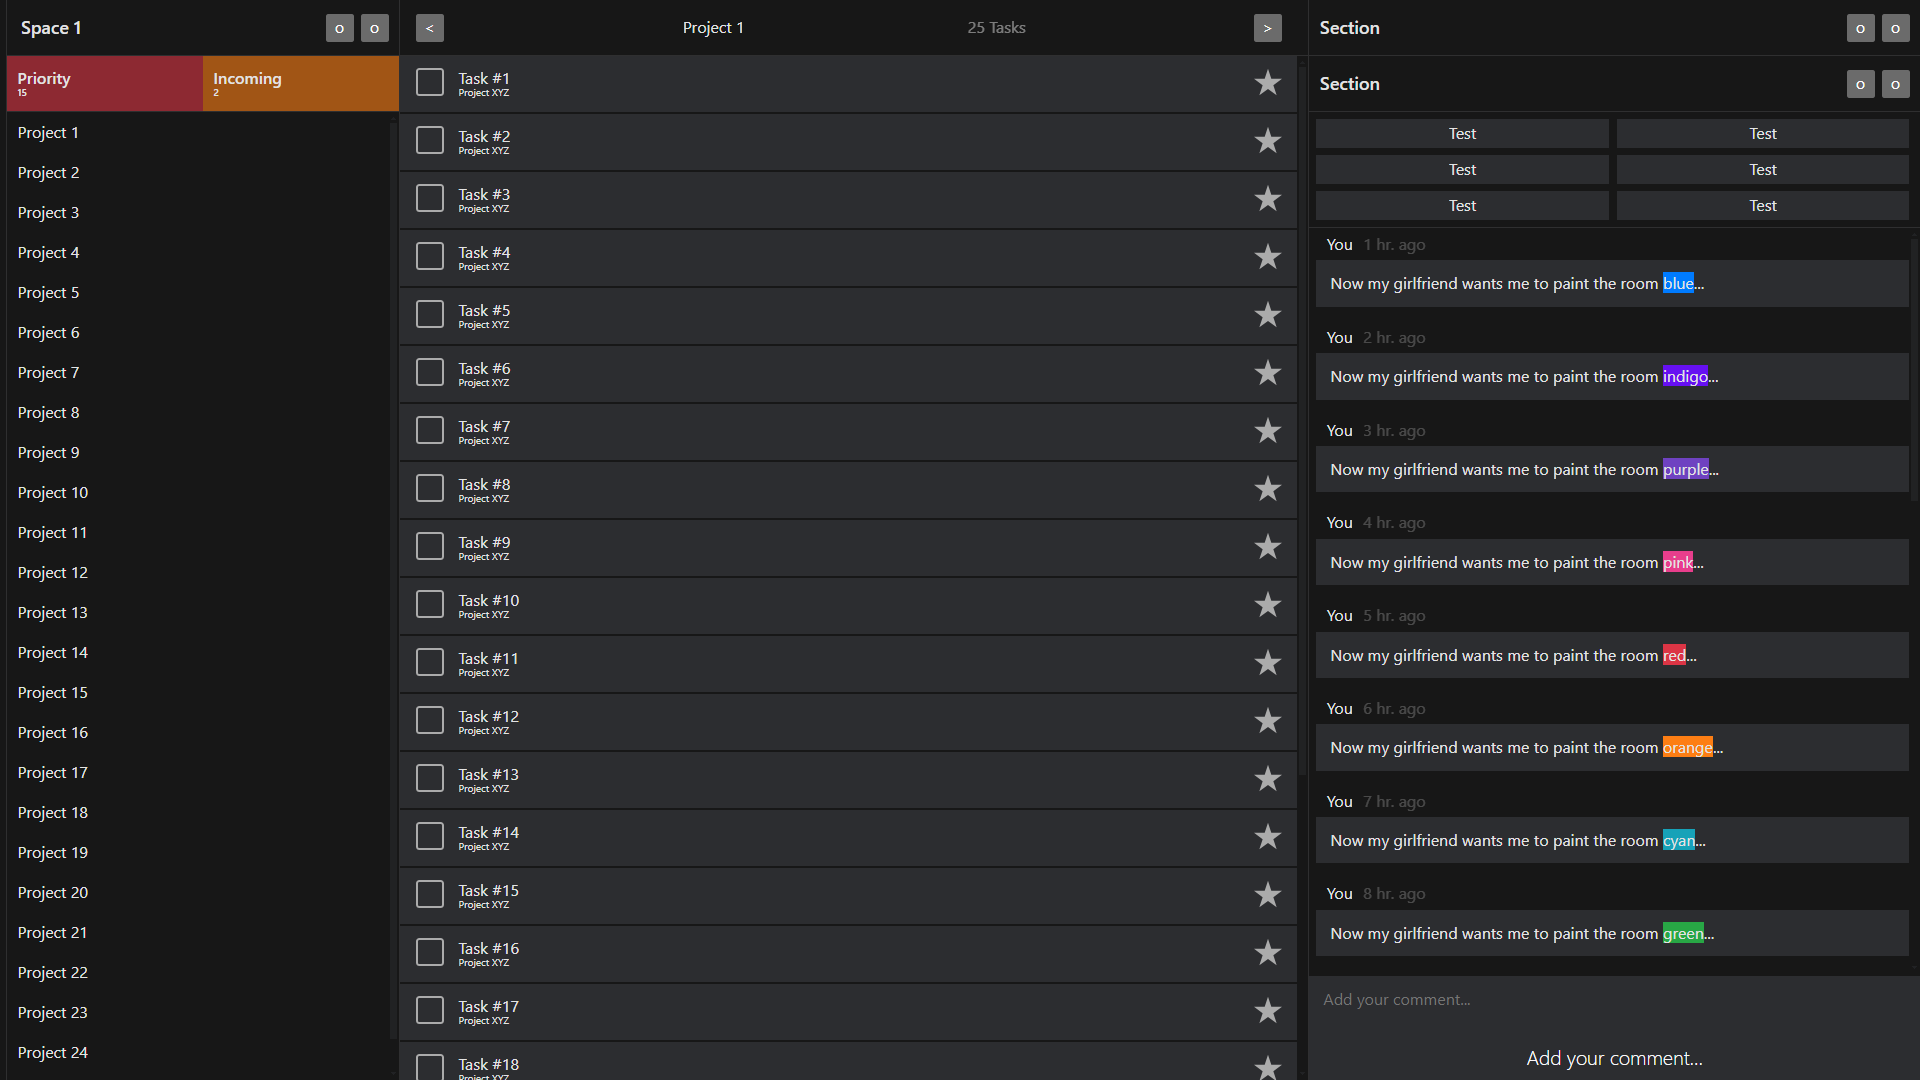
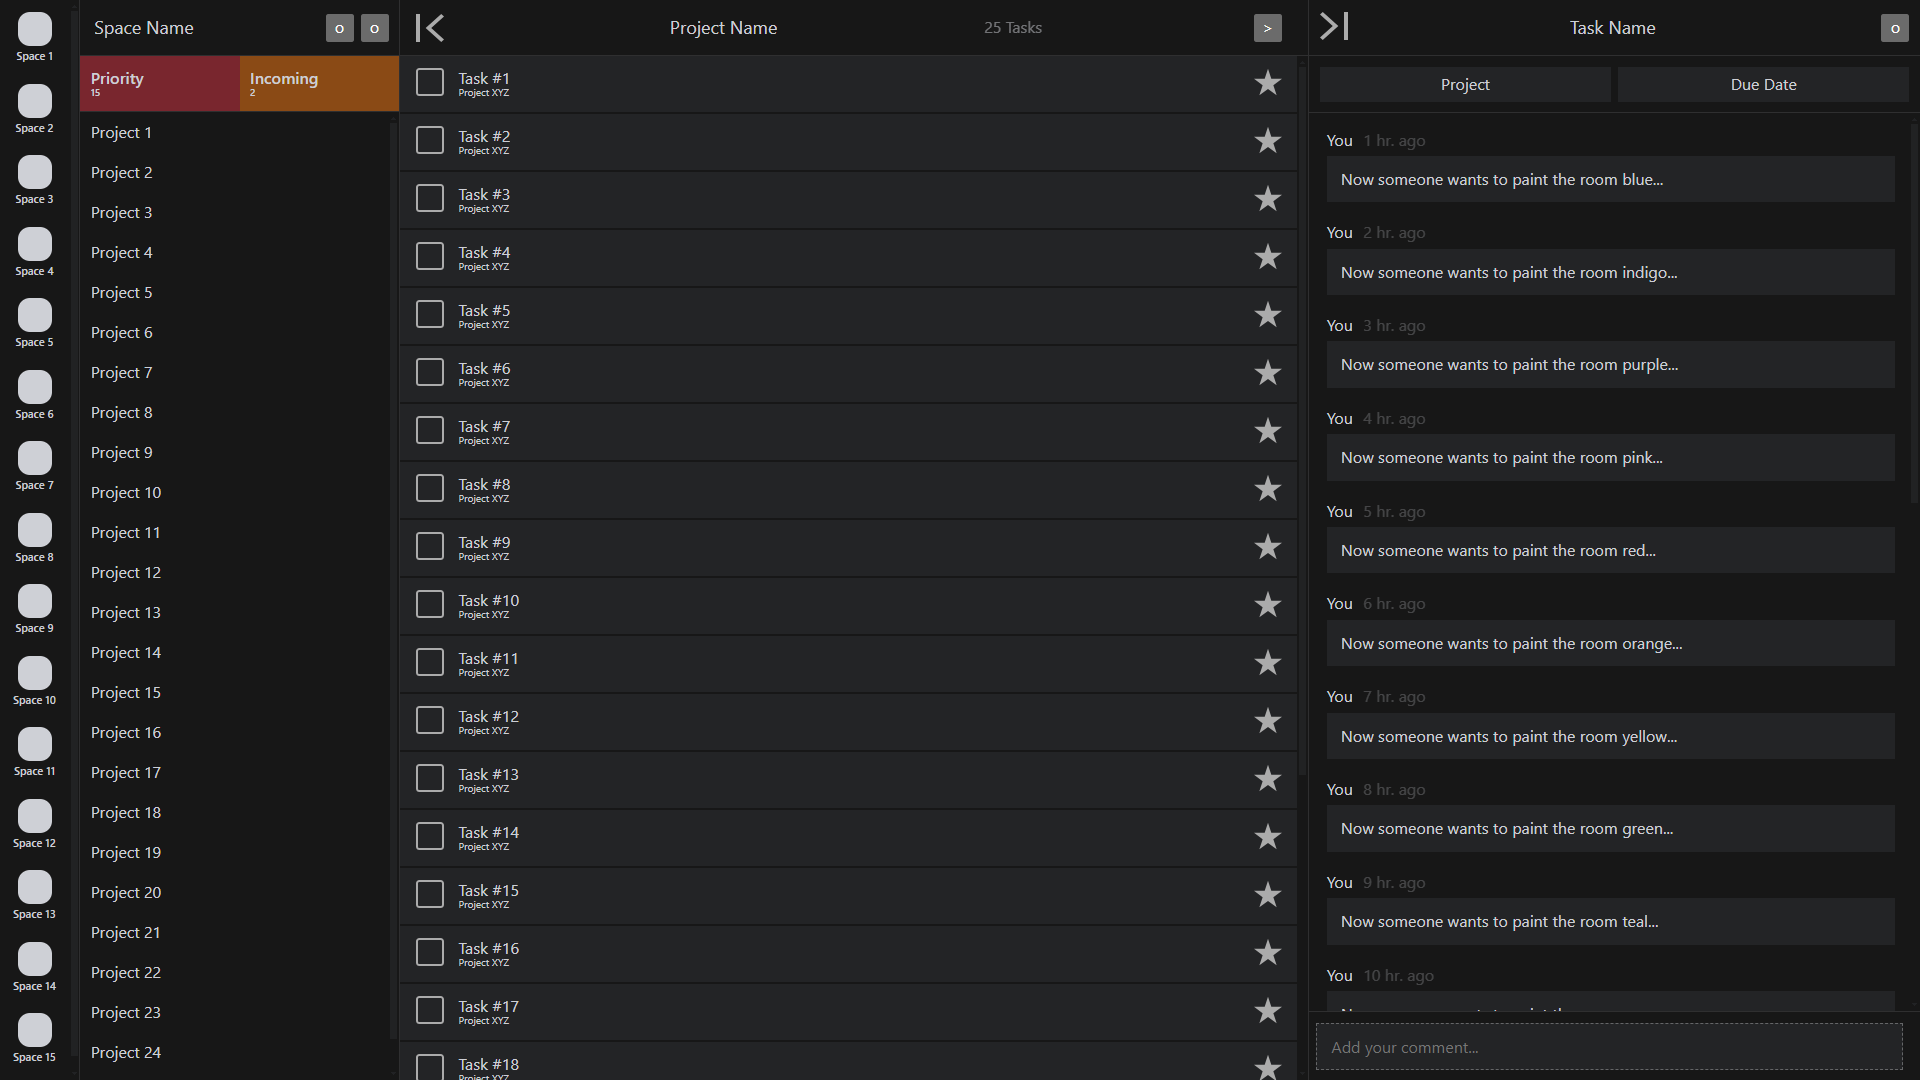
Create User Interface - Step 7 #159

diff --git a/src/frontend/angular/src/sass/colors.scss b/src/frontend/angular/src/sass/colors.scss
@@ -1,21 +1,43 @@
-@mixin activeColor($currentColor)
-{
+@mixin activeColor($currentColor) {
   background-color: $currentColor;
-  &.hd
-  {
-    transition: background-color 0.5s ease;
-    &:hover
-    {
+  color: inherit;
+  &.hd {
+    transition: all 0.5s ease;
+
+    &:hover, &:focus {
       background-color: darken($currentColor, 10%);
+
+      &.focus {
+        box-shadow: inset 0px 0px 1px 1px rgba(255, 255, 255, 1);
+      }
+    }
+
+    &:active {
+      color: rgba(255, 255, 255, 1);
+      &.focus {
+        transition: all 0.2s ease;
+        box-shadow: inset 0px 0px 2px 2px rgba(255, 255, 255, 1);
+      }
     }
   }
 
-  &.hl
-  {
-    transition: background-color 0.5s ease;
-    &:hover
-    {
+  &.hl {
+    transition: all 0.5s ease;
+
+    &:hover, &:focus {
       background-color: lighten($currentColor, 10%);
+
+      &.focus {
+        box-shadow: inset 0px 0px 1px 1px rgba(255, 255, 255, 1);
+      }
+    }
+
+    &:active {
+      color: rgba(255, 255, 255, 1);
+      &.focus {
+        transition: all 0.2s ease;
+        box-shadow: inset 0px 0px 2px 2px rgba(255, 255, 255, 1);
+      }
     }
   }
 }
@@ -52,12 +74,27 @@ $dark: #343a40;
 $classic: #2c2d30;
 $classicDark: #232426;
 
-.bg-red-o6{ @include activeColor(rgba($red, 0.6)) }
-.bg-orange-o6{ @include activeColor(rgba($orange, 0.6)) }
+.bg-red-o6 {
+  @include activeColor(rgba($red, 0.5))
+}
+
+.bg-orange-o6 {
+  @include activeColor(rgba($orange, 0.5))
+}
+
 //.bg-classic{ @include activeColor(rgba($classic, 1)) }
-.bg-classic{ @include activeColor(rgba($classic, 0.6)) }
-.bg-classicDark{ @include activeColor(rgba($classicDark, 0.6)) }
-.bg-dark-bg{ @include activeColor(rgba($dark-bg, 0.6)) }
+.bg-classic {
+  @include activeColor(rgba($classic, 0.6))
+}
+
+.bg-classicDark {
+  @include activeColor(rgba($classicDark, 0.6))
+}
+
+.bg-dark-bg {
+  @include activeColor(rgba($dark-bg, 0.6))
+}
+
 //.bg-classic{ @include activeColor(rgba($classicDark, 1)) }
 
 //$colors: (
@@ -83,7 +120,7 @@ $classicDark: #232426;
 //  light: $light,
 //  dark: $dark,
 //  classic: $classic,
-//);
+//)
 //
 //@each $name, $color in $colors {
 //  .bg-#{""+$name} {

diff --git a/src/frontend/angular/src/app/components/task-list/task-list.component.html b/src/frontend/angular/src/app/components/task-list/task-list.component.html
@@ -1,8 +1,15 @@
 <div class="sectionInfo">
   <div class="sectionInfoContainer-3">
-    <button class="tmpBtn"><</button>
+<!--    <button class="tmpBtn"></button>-->
+    <span class="tmpBtn">
+      <svg width="28" height="28" viewBox="0 0 28 28" style="fill-rule:evenodd;" fill="#ABABAB">
+        <path d="M28,25.5l-2.778,2.5l-15.555,-14l15.555,-14l2.778,2.5l-12.778,11.5l12.778,11.5Z"/><rect x="0" y="0" width="4" height="28"/>
+            <title>Mark Task As Priority</title>
+      </svg>
+    </span>
+
     <div class="sectionInfoTextContainer">
-      <span class="ml-1 pointer">Project Name</span>
+      <span class="ml-1 pointerFocus">Project Name</span>
     </div>
     <div class="taskCounter">{{taskIndexes.length}} Tasks</div>
     <button class="tmpBtn">></button>
@@ -15,7 +22,7 @@
         <div style="height: 3.2rem; padding: 0 0.5rem;">
           <svg width="28" height="28" viewBox="0 0 28 28" style="fill-rule:evenodd;" fill="#ABABAB">
             <path d="M28,3.36c0,-1.854 -1.506,-3.36 -3.36,-3.36l-21.28,0c-1.854,0 -3.36,1.506 -3.36,3.36l0,21.28c0,1.854 1.506,3.36 3.36,3.36l21.28,0c1.854,0 3.36,-1.506 3.36,-3.36l0,-21.28Zm-2,-0l0,21.28c0,0.751 -0.609,1.36 -1.36,1.36l-21.28,0c-0.751,0 -1.36,-0.609 -1.36,-1.36l0,-21.28c0,-0.751 0.609,-1.36 1.36,-1.36l21.28,0c0.751,0 1.36,0.609 1.36,1.36Z"/>
-            <title>Complete task</title>
+            <title>Complete Task</title>
           </svg>
         </div>
         <div style="padding: 0 1rem; width: 100%; display: flex; flex-direction: column">
@@ -25,7 +32,7 @@
         <div style="height: 3.2rem; padding: 0 0.5rem;">
           <svg width="28" height="28" viewBox="0 0 28 28" style="fill-rule:evenodd;" fill="#ABABAB">
             <path d="M14,0.685l3.305,10.172l10.695,-0l-8.652,6.286l3.304,10.172l-8.652,-6.287l-8.652,6.287l3.304,-10.172l-8.652,-6.286l10.695,-0l3.305,-10.172Z"/>
-            <title>Priority</title>
+            <title>Mark Task As Priority</title>
           </svg>
         </div>
       </div>

diff --git a/src/frontend/angular/src/app/components/detail-list/detail-list.component.ts b/src/frontend/angular/src/app/components/detail-list/detail-list.component.ts
@@ -1,5 +1,4 @@
-import { Component } from '@angular/core';
-import {NgClass, NgForOf} from "@angular/common";
+import {Component} from '@angular/core';
 import {DetailOptionsComponent} from "../detail-options/detail-options.component";
 import {CommentListComponent} from "../comment-list/comment-list.component";
 import {CommentBoxComponent} from "../comment-box/comment-box.component";
@@ -10,15 +9,10 @@ import {CommentBoxComponent} from "../comment-box/comment-box.component";
   imports: [
     DetailOptionsComponent,
     CommentListComponent,
-    NgForOf,
-    NgClass,
     CommentBoxComponent
   ],
   templateUrl: './detail-list.component.html',
   styleUrl: './detail-list.component.scss'
 })
 export class DetailListComponent {
-  colors: string[] = ['blue','indigo','purple','pink','red','orange','yellow','green','teal','cyan','white','gray','gray-dark','primary','secondary','success','info','warning','danger','light','dark','classic']
 }
-
-

diff --git a/src/frontend/angular/src/app/components/comment-box/comment-box.component.scss b/src/frontend/angular/src/app/components/comment-box/comment-box.component.scss
@@ -1,37 +1,41 @@
 @import "../../../sass/global";
 
-:host
-{
-  border-top: #171717 solid 0.2rem;
-  @extend .mr-5, .ml-2;
+:host {
+  @extend .bt;
+  @extend .pr-5, .pl-2;
 }
 
-.button
-{
+.button {
   display: flex;
   width: 100%;
   justify-content: center;
   border: none;
 
-  span
-  {
+  span {
     font-size: 2rem;
     font-weight: 300;
     height: 3.2rem;
   }
 }
 
-.commentBox
-{
+.commentBox {
   display: flex;
   width: 100%;
   justify-content: center;
-  border: none;
+  //border: none;
+  border: dashed thin rgb(255, 255, 255, 0.3);
   height: 4.7rem;
-  transition: all 0.4s ease;
-  &:hover, &:focus
+  overflow-y: scroll;
+  scrollbar-width: thin;
+  scrollbar-color: transparent transparent;
+
+  &:hover, &:focus {
+    border: solid thin rgb(255, 255, 255, 1);
+  }
+
+  .opened &
   {
-    height: 10.5rem;
-    border: none;
+    height: 14.2rem;
+    cursor: text;
   }
 }

diff --git a/src/frontend/angular/src/app/components/project-list/project-list.component.html b/src/frontend/angular/src/app/components/project-list/project-list.component.html
@@ -1,7 +1,7 @@
 <div class="sectionInfo">
   <div class="sectionInfoContainer-3">
     <div class="sectionInfoTextContainer">
-      <span class="ml-1 pointer">Space Name</span><!--   TODO Rozwijanie menu na klikniecie   -->
+      <span class="ml-1 pointerFocus">Space Name</span><!--   TODO Rozwijanie menu na klikniecie   -->
     </div>
     <div class="sectionInfoButtonsContainer">
       <button class="mr-1">o</button>
@@ -11,7 +11,7 @@
 </div>
 <div class="sectionInfo">
   <div class="sectionInfoContainer-0">
-    <div class="pl-3 pointer bigBtn bg-red-o6 hd">
+    <div class="pl-3 pointer bigBtn bg-red-o6 hd focus">
       <div>
         Priority
       </div>
@@ -19,7 +19,7 @@
         15
       </div>
     </div>
-    <div class="pl-3 pointer bigBtn bg-orange-o6 hd">
+    <div class="pl-3 pointer bigBtn bg-orange-o6 hd focus">
       <div>
         Incoming
       </div>

diff --git a/src/frontend/angular/src/app/components/comment-box/comment-box.component.ts b/src/frontend/angular/src/app/components/comment-box/comment-box.component.ts
@@ -1,4 +1,4 @@
-import { Component } from '@angular/core';
+import {Component, ElementRef, HostListener} from '@angular/core';
 
 @Component({
   selector: 'app-comment-box',
@@ -7,6 +7,21 @@ import { Component } from '@angular/core';
   templateUrl: './comment-box.component.html',
   styleUrl: './comment-box.component.scss'
 })
-export class CommentBoxComponent {
 
+export class CommentBoxComponent {
+  isOpen: boolean = false;
+  inputValue: string = "";
+  constructor(private elementRef: ElementRef) { }
+
+  @HostListener('document:click', ['$event'])
+  onClickOutside(event: Event) {
+    if (!this.elementRef.nativeElement.contains(event.target)) {
+      // Kliknięcie poza komponentem, chowamy element
+      this.isOpen = false;
+    }
+  }
+
+  toggleElement() {
+    this.isOpen = !this.isOpen;
+  }
 }

diff --git a/src/frontend/angular/src/app/components/detail-list/detail-list.component.html b/src/frontend/angular/src/app/components/detail-list/detail-list.component.html
@@ -1,10 +1,15 @@
 <div class="sectionInfo">
   <div class="sectionInfoContainer-3">
 	  <div class="sectionInfoButtonsContainer">
-		  <button class="mr-1">o</button>
+		   <span>
+        <svg width="28" height="28" viewBox="0 0 28 28" style="fill-rule:evenodd;" fill="#ABABAB">
+          <path d="M0,25.5l2.778,2.5l15.555,-14l-15.555,-14l-2.778,2.5l12.778,11.5l-12.778,11.5Z"/><rect x="24" y="0" width="4" height="28"/>
+              <title>Mark Task As Priority</title>
+        </svg>
+      </span>
 	  </div>
 	  <div class="sectionInfoTextContainer">
-      <span>Task Name</span>
+      <span class="pointerFocus" title="Change Task Name">Task Name</span>
     </div>
     <div class="sectionInfoButtonsContainer">
       <button class="ml-1">o</button>

diff --git a/src/frontend/angular/src/app/components/comment-box/comment-box.component.html b/src/frontend/angular/src/app/components/comment-box/comment-box.component.html
@@ -1,4 +1,10 @@
-<textarea class="commentBox bg-classic pa-4 textCursor" placeholder="Add your comment..."></textarea>
-<button type="button" class="button bg-dark-bg hd pa-1 pointer">
-  <span>Add your comment...</span>
-</button>
+<div [class.opened]="isOpen">
+  <div>
+    <textarea class="bg-classic hl focus pa-4 mt-3 mb-3 pointer commentBox" placeholder="Add your comment..." title="Add Your Comment" (focus)="isOpen = true" [value]="inputValue"></textarea>
+    <div [hidden]="!isOpen">
+      <button type="button" class="bg-dark-bg hd focus pa-1 pointer button">
+        <span>Add your comment...</span>
+      </button>
+    </div>
+  </div>
+</div>

diff --git a/src/frontend/angular/src/sass/global.scss b/src/frontend/angular/src/sass/global.scss
@@ -60,10 +60,31 @@ $border-style: 0.05rem solid $border-color;
   cursor: pointer;
 }
 
-.textCursor
+.pointerFocus
 {
-  cursor: text;
+  cursor: pointer;
+  transition: all 0.4s ease;
+  &:hover{
+    color: rgb(255, 255, 255, 0.85);
+    text-shadow: 0px 0px 3px rgba(255, 255, 255, 0.05);
+  }
+  &:active{
+    color: rgb(255, 255, 255, 1);
+    text-shadow: 0px 0px 3px rgba(255, 255, 255, 0.35);
+  }
 }
+
+svg
+{
+  transition: fill 0.3s ease;
+  cursor: pointer;
+}
+
+svg:hover
+{
+  fill: hsl(0, 0%, 82%);
+}
+
 
 div {
   //border: 1px dotted white;

diff --git a/src/frontend/angular/src/app/components/task-list/task-list.component.ts b/src/frontend/angular/src/app/components/task-list/task-list.component.ts
@@ -1,12 +1,14 @@
 import { Component } from '@angular/core';
 import {NgForOf} from "@angular/common";
+import {CommentBoxComponent} from "../comment-box/comment-box.component";
 
 @Component({
   selector: 'app-task-list',
   standalone: true,
-    imports: [
-        NgForOf
-    ],
+  imports: [
+    NgForOf,
+    CommentBoxComponent
+  ],
   templateUrl: './task-list.component.html',
   styleUrl: './task-list.component.scss'
 })

diff --git a/src/frontend/angular/src/app/components/comment-list/comment-list.component.html b/src/frontend/angular/src/app/components/comment-list/comment-list.component.html
@@ -5,6 +5,6 @@
     <span class="Date">{{i+1}} hr. ago</span>
     <span class="Rest"></span>
   </div>
-  <div class="comment mb-6 pa-4 bg-classic">Now someone wants to paint the room <span [ngClass]="'bg-' + color">{{color}}</span>...</div>
+  <div class="comment mb-6 ml-3 mr-2 pa-4 bg-classic">Now someone wants to paint the room <span [ngClass]="'bg-' + color">{{color}}</span>...</div>
 </div>
 </div>

diff --git a/src/frontend/angular/src/app/components/detail-options/detail-options.component.html b/src/frontend/angular/src/app/components/detail-options/detail-options.component.html
@@ -1,6 +1,6 @@
 <div class="grid pr-1">
-  <div class="bg-classic hd button pointer mb-3" >Project</div>
+  <div class="bg-classic hd focus button pointer" title="Change Project">Project</div>
 </div>
 <div class="grid pl-1">
-  <div class="bg-classic hd button pointer mb-2">Due Date</div>
+  <div class="bg-classic hd focus button pointer" title="Change Due Date">Due Date</div>
 </div>
